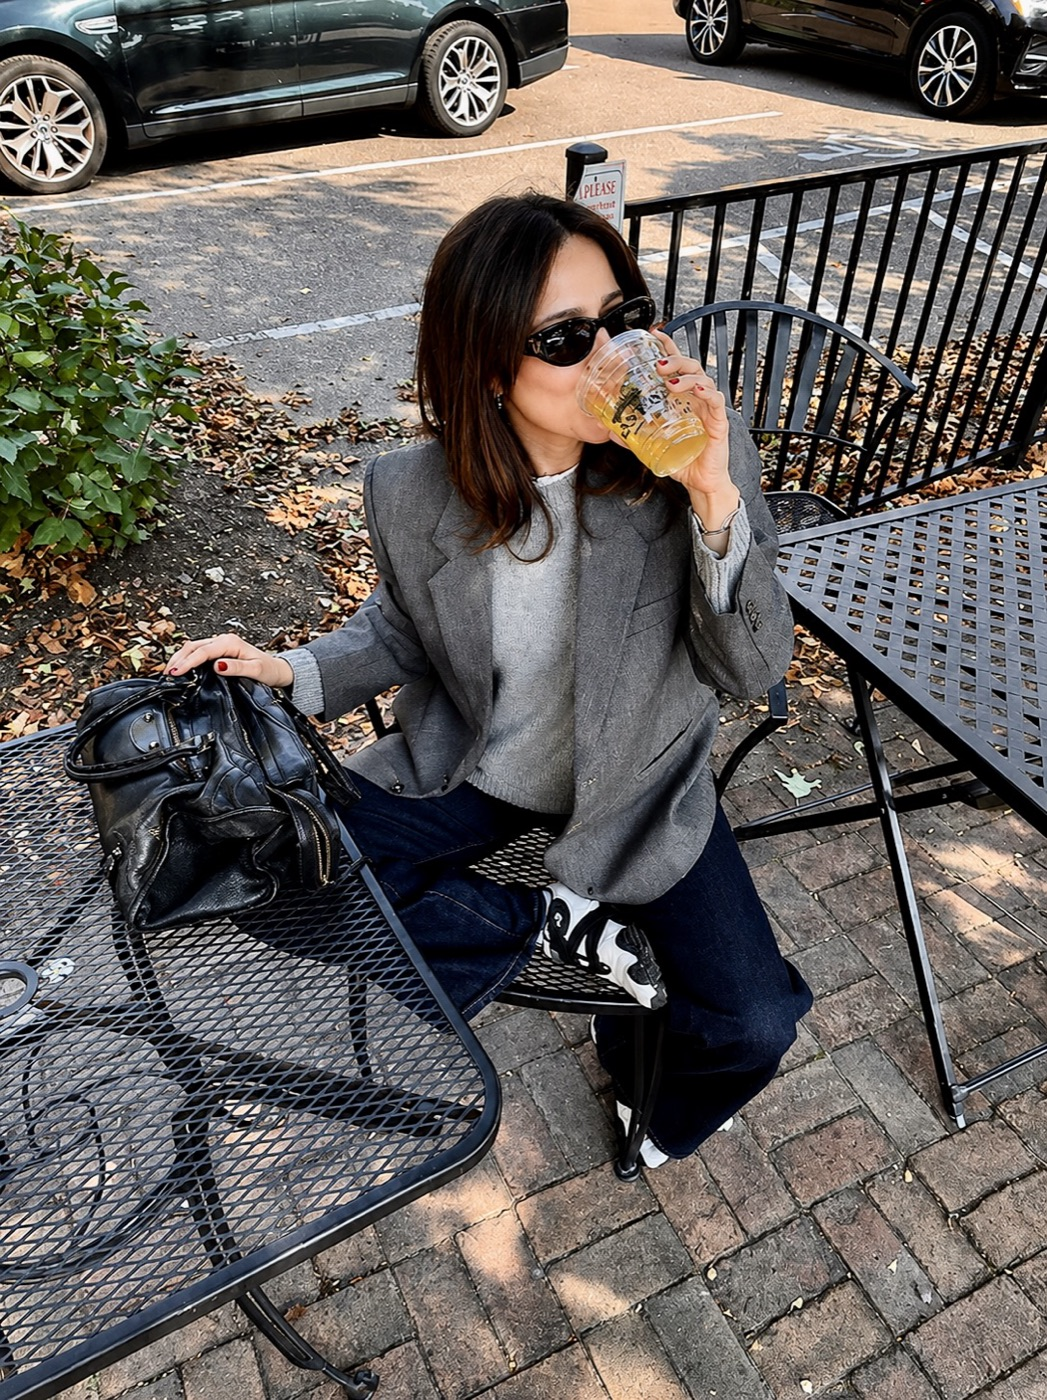
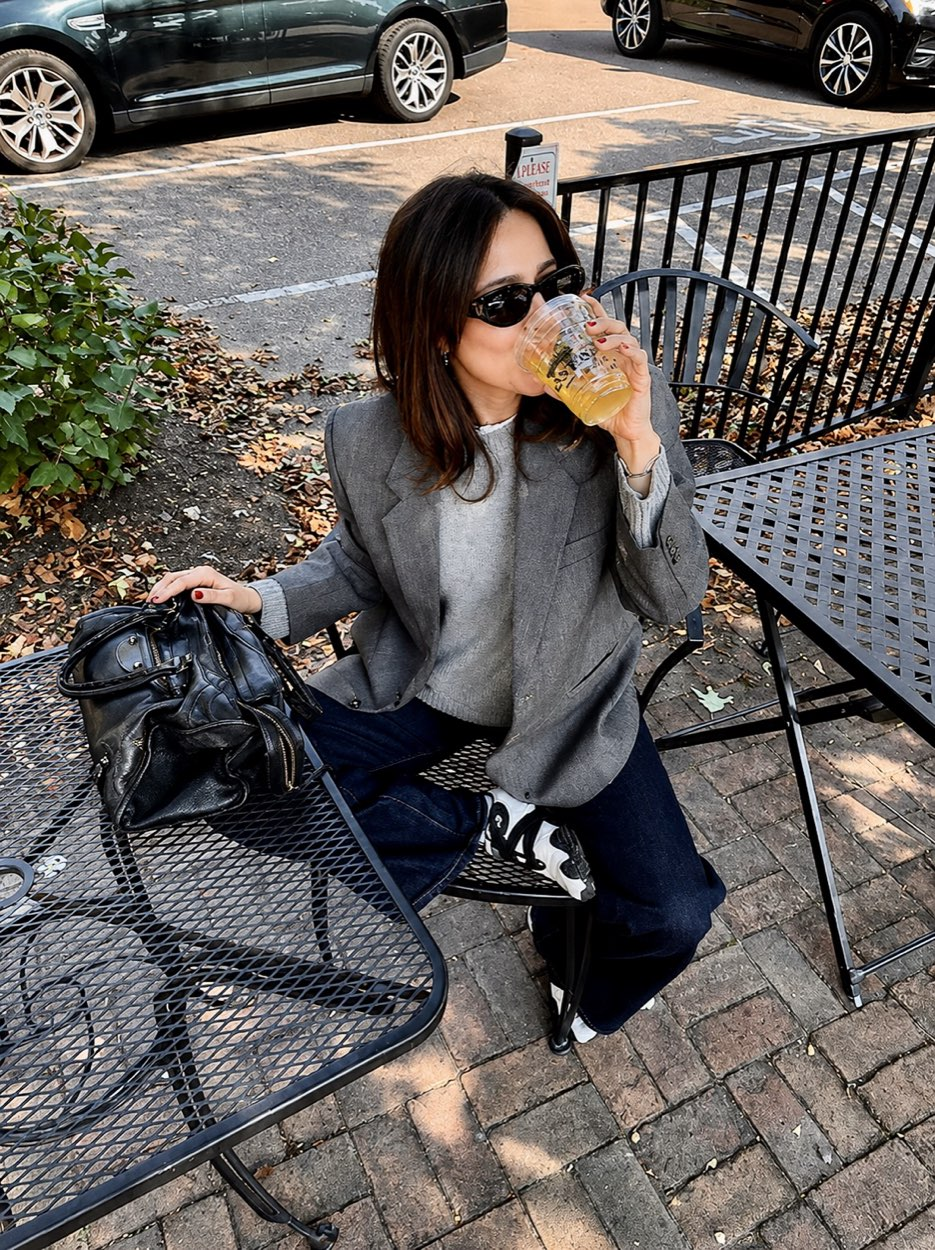
QA fixes: shorten titles and meta descriptions, remove remaining dashes, add og:image to privacy and 404, recompress blog-3
- homepage title 69 -> 53 chars, keyword first; meta description 189 -> 155
- journal title suffix shortened so all posts fit Google's ~60 char limit
- four service descriptions trimmed to 141-154 chars
- em/en dashes removed from all titles, metas and visible copy
- privacy and 404 pages given og:image and social meta; 404 marked noindex
- blog-3.jpg 712 KB -> 429 KB

diff --git a/index.html b/index.html
@@ -3,20 +3,20 @@
 <head>
 <meta charset="UTF-8">
 <meta name="viewport" content="width=device-width, initial-scale=1.0">
-<title>Rad Dolo — Personal Stylist in Minneapolis & Virtual Styling Anywhere</title>
-<meta name="description" content="Rad Dolo is a Minneapolis personal stylist offering closet edits, wardrobe revamps, event and photoshoot styling — in person across the Twin Cities and virtually anywhere. Book a free call.">
+<title>Personal Stylist in Minneapolis and Virtual | Rad Dolo</title>
+<meta name="description" content="Minneapolis personal stylist Rad Dolo. Closet edits, wardrobe revamps, personal shopping and event styling, in person or virtual anywhere. Book a free call.">
 <link rel="canonical" href="https://www.raddolo.com/">
 <link rel="icon" type="image/svg+xml" href="favicon.svg">
 <link rel="icon" type="image/png" sizes="32x32" href="favicon-32.png">
 <link rel="apple-touch-icon" href="apple-touch-icon.png">
 <link rel="alternate" type="application/rss+xml" title="Rad Dolo — The Journal" href="https://www.raddolo.com/feed.xml">
 <meta property="og:type" content="website">
-<meta property="og:title" content="Rad Dolo — Personal Stylist, Minneapolis & Virtual">
-<meta property="og:description" content="Your energy introduces you before you ever say a word. Personal styling in Minneapolis and virtually anywhere — closet edits, wardrobe revamps, event styling.">
+<meta property="og:title" content="Rad Dolo | Personal Stylist, Minneapolis and Virtual">
+<meta property="og:description" content="Your energy introduces you before you ever say a word. Personal styling in Minneapolis and virtually anywhere. Closet edits, wardrobe revamps, event styling.">
 <meta property="og:url" content="https://www.raddolo.com/">
 <meta property="og:image" content="https://www.raddolo.com/hero.jpg">
 <meta name="twitter:card" content="summary_large_image">
-<meta name="twitter:title" content="Rad Dolo — Personal Stylist, Minneapolis & Virtual">
+<meta name="twitter:title" content="Rad Dolo | Personal Stylist, Minneapolis and Virtual">
 <meta name="twitter:description" content="Closet edits, wardrobe revamps, event styling. In person in Minneapolis, virtual anywhere. Book a free call.">
 <meta name="twitter:image" content="https://www.raddolo.com/hero.jpg">
 <link rel="preconnect" href="https://fonts.googleapis.com">
@@ -30,7 +30,7 @@
   "name": "Rad Dolo Personal Styling",
   "url": "https://www.raddolo.com/",
   "image": "https://www.raddolo.com/hero.jpg",
-  "description": "Personal stylist offering closet edits, wardrobe revamps, personal shopping, event styling, photoshoot styling and vacation styling. In person across Minneapolis–St. Paul and virtually anywhere.",
+  "description": "Personal stylist offering closet edits, wardrobe revamps, personal shopping, event styling, photoshoot styling and vacation styling. In person across Minneapolis and St. Paul, and virtually anywhere.",
   "priceRange": "$$",
   "foundingDate": "2011",
   "paymentAccepted": "Venmo",
@@ -411,7 +411,7 @@
 
 <!-- ——— fixed full-bleed hero; the site curtains up over it ——— -->
 <section class="hero" id="hero">
-  <h1 class="sr-only">Rad Dolo — personal stylist in Minneapolis and virtual stylist anywhere. Closet edits, wardrobe revamps, event and photoshoot styling.</h1>
+  <h1 class="sr-only">Rad Dolo, personal stylist in Minneapolis and virtual stylist anywhere. Closet edits, wardrobe revamps, event and photoshoot styling.</h1>
   <img class="hero-bg" src="hero.jpg" alt="Rad Dolo, personal stylist, standing beside a rack of clothes in her Minneapolis studio">
   <div class="testimonials" id="testimonials" aria-hidden="true">
     <p class="testimonial" id="testimonial"></p>

diff --git a/privacy/index.html b/privacy/index.html
@@ -14,6 +14,11 @@
 <meta property="og:title" content="Privacy | Rad Dolo">
 <meta property="og:description" content="What this site collects, why, and how to have it removed.">
 <meta property="og:url" content="https://www.raddolo.com/privacy/">
+<meta property="og:image" content="https://www.raddolo.com/hero.jpg">
+<meta name="twitter:card" content="summary_large_image">
+<meta name="twitter:title" content="Privacy | Rad Dolo">
+<meta name="twitter:description" content="What this site collects, why, and how to have it removed.">
+<meta name="twitter:image" content="https://www.raddolo.com/hero.jpg">
 <link rel="preconnect" href="https://fonts.googleapis.com">
 <link rel="preconnect" href="https://fonts.gstatic.com" crossorigin>
 <link href="https://fonts.googleapis.com/css2?family=Cormorant+Garamond:wght@400;500;600;700&family=Proza+Libre:ital,wght@0,400;0,500;0,600;0,700;1,400&family=Montserrat:wght@400;500;600;700&display=swap" rel="stylesheet">

diff --git a/404.html b/404.html
@@ -3,7 +3,12 @@
 <head>
 <meta charset="UTF-8">
 <meta name="viewport" content="width=device-width, initial-scale=1.0">
-<title>Page not found — Rad Dolo</title>
+<title>Page not found | Rad Dolo</title>
+<meta name="description" content="This page does not exist. Head back to the homepage for closet edits, personal shopping and styling with Minneapolis stylist Rad Dolo.">
+<meta name="robots" content="noindex, follow">
+<meta property="og:title" content="Page not found | Rad Dolo">
+<meta property="og:description" content="This page does not exist.">
+<meta property="og:image" content="https://www.raddolo.com/hero.jpg">
 <meta name="robots" content="noindex">
 <link rel="icon" type="image/svg+xml" href="/favicon.svg">
 <link rel="icon" type="image/png" sizes="32x32" href="/favicon-32.png">

diff --git a/templates/article.html b/templates/article.html
@@ -3,7 +3,7 @@
 <head>
 <meta charset="UTF-8">
 <meta name="viewport" content="width=device-width, initial-scale=1.0">
-<title>{{TITLE}} | Rad Dolo, Personal Stylist in Minneapolis</title>
+<title>{{TITLE}} | Rad Dolo</title>
 <meta name="description" content="{{DESCRIPTION}}">
 <link rel="canonical" href="https://www.raddolo.com/journal/{{SLUG}}/">
 <link rel="icon" type="image/svg+xml" href="../../favicon.svg">

diff --git a/content/services/virtual-styling.md b/content/services/virtual-styling.md
@@ -1,8 +1,8 @@
 ---
 title: "Virtual styling"
 order: "4"
-seo_title: "Virtual Personal Stylist | Online Styling Anywhere with Rad Dolo"
-description: "Virtual styling and online personal shopping with stylist Rad Dolo. Complete head to toe looks for your body and your budget, without ever setting foot in a store. Anywhere in the world."
+seo_title: "Virtual Personal Stylist Anywhere | Rad Dolo"
+description: "Virtual styling and online personal shopping with Rad Dolo. Complete head to toe looks for your body and your budget, from anywhere in the world."
 lead: "The same eye, over video, anywhere in the world. It works better than people expect."
 image: "/blog-2.jpg"
 ---

diff --git a/content/services/personal-shopping.md b/content/services/personal-shopping.md
@@ -2,7 +2,7 @@
 title: "Personal shopping"
 order: "2"
 seo_title: "Personal Shopper in Minneapolis | Rad Dolo Personal Styling"
-description: "Personal shopping with Minneapolis stylist Rad Dolo. I find the pieces, in stores or online, that fit your body, your budget and the life you actually lead. You skip the guesswork."
+description: "Personal shopping with Minneapolis stylist Rad Dolo. I find the pieces, in store or online, that fit your body, your budget and your real life."
 lead: "Shopping is not the fun part for most people. It is four hours, three stores and a bag of things you will return. Let me do it instead."
 image: "/blog-4.jpg"
 ---

diff --git a/content/services/closet-edits.md b/content/services/closet-edits.md
@@ -2,7 +2,7 @@
 title: "Closet edits"
 order: "1"
 seo_title: "Closet Edits in Minneapolis | Wardrobe Editing with Rad Dolo"
-description: "A closet edit with Minneapolis personal stylist Rad Dolo. We go through everything you own, keep what works for the person you are now, and build real outfits from what stays."
+description: "A closet edit with Minneapolis stylist Rad Dolo. We go through everything you own, keep what works for who you are now, and build outfits from what stays."
 lead: "Most people own more than they think and wear less than they want to. A closet edit fixes that before you spend a dollar."
 image: "/blog-1.jpg"
 ---

diff --git a/content/services/wedding-styling.md b/content/services/wedding-styling.md
@@ -2,7 +2,7 @@
 title: "Wedding styling"
 order: "3"
 seo_title: "Wedding and Bridal Stylist in Minneapolis | Rad Dolo"
-description: "Bridal and wedding party styling in Minneapolis with stylist Rad Dolo. Brides, wedding parties, mothers of the bride and groom, guests, and every look the weekend asks for."
+description: "Bridal and wedding party styling in Minneapolis with Rad Dolo. Brides, wedding parties, mothers, guests, and every look the weekend asks for."
 lead: "The dress is handled. It is everything around the dress that tends to fall apart."
 image: "/hero.jpg"
 ---
